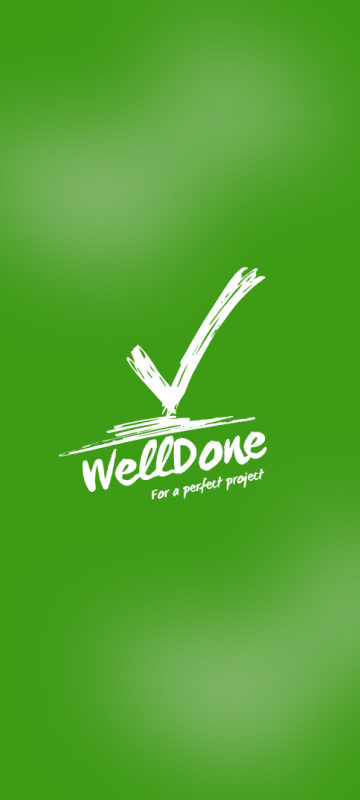
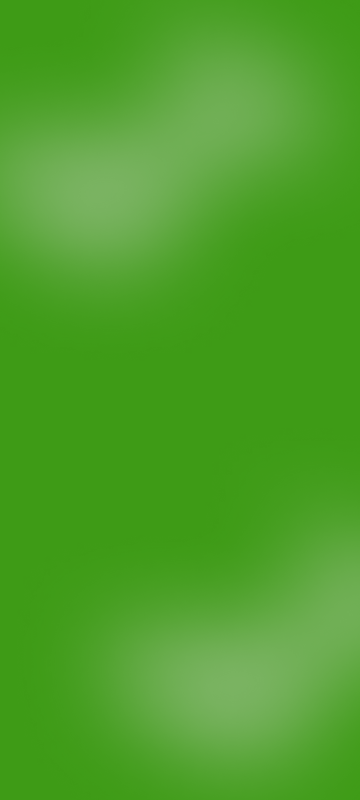
reconfig navigattion

Changed region(s): [[0.1833, 0.3125, 0.7333, 0.625]]

diff --git a/src/Navigation/index.tsx b/src/Navigation/index.tsx
@@ -3,12 +3,16 @@ import { StatusBar } from "react-native";
 import { createNativeStackNavigator } from "@react-navigation/native-stack";
 import { NavigationContainer } from "@react-navigation/native";
 import { MainNavigator } from "./Main";
-import { WelcomeContainer } from "@/Screens/Welcome";
-import { RootScreens } from "@/Screens";
+import { RootScreens, Onboarding1Container, Onboarding2Container, Onboarding3Container, Onboarding4Container, Onboarding5Container } from "@/Screens";
 
 export type RootStackParamList = {
   [RootScreens.MAIN]: undefined;
-  [RootScreens.WELCOME]: undefined;
+  [RootScreens.ONBOARDING1]: undefined;
+  [RootScreens.ONBOARDING2]: undefined;
+  [RootScreens.ONBOARDING3]: undefined;
+  [RootScreens.ONBOARDING4]: undefined;
+  [RootScreens.ONBOARDING5]: undefined;
+
 };
 
 const RootStack = createNativeStackNavigator<RootStackParamList>();
@@ -20,8 +24,24 @@ const ApplicationNavigator = () => {
       <StatusBar />
       <RootStack.Navigator screenOptions={{ headerShown: false }}>
         <RootStack.Screen
-          name={RootScreens.WELCOME}
-          component={WelcomeContainer}
+          name={RootScreens.ONBOARDING1}
+          component={Onboarding1Container}
+        />
+        <RootStack.Screen
+          name={RootScreens.ONBOARDING2}
+          component={Onboarding2Container}
+        />
+        <RootStack.Screen
+          name={RootScreens.ONBOARDING3}
+          component={Onboarding3Container}
+        />
+        <RootStack.Screen
+          name={RootScreens.ONBOARDING4}
+          component={Onboarding4Container}
+        />
+        <RootStack.Screen
+          name={RootScreens.ONBOARDING5}
+          component={Onboarding5Container}
         />
         <RootStack.Screen
           name={RootScreens.MAIN}

diff --git a/src/Screens/Onboarding1/Onboarding1.tsx b/src/Screens/Onboarding1/Onboarding1.tsx
@@ -1,0 +1,26 @@
+import React from "react";
+import { i18n, LocalizationKey } from "@/Localization";
+import { View, Text, StyleSheet, ImageBackground, Image, Pressable } from "react-native";
+import { Button } from "native-base";
+import { RootScreens } from "..";
+
+export const Onboarding1 = (props: {
+  onNavigate: (string: RootScreens) => void;
+}) => {
+  return (
+    <Pressable onPress={() => props.onNavigate(RootScreens.ONBOARDING2)}>
+      <ImageBackground source={require('assets/bg1.png')}  resizeMode="cover" className="flex items-center justify-center w-[100vw] h-[100vh]">
+        <Image
+            className="w-[400px] h-[400px] object-cover"
+            source={require('assets/light-logo.png')}
+          />
+          
+          {/* <Text className='text-xl text-white font-bold'>Hello</Text>
+          <Button onPress={() => props.onNavigate(RootScreens.MAIN)}>
+            {i18n.t(LocalizationKey.START)}
+          </Button> */}
+      </ImageBackground>
+    </Pressable>
+    
+  );
+};

diff --git a/src/Screens/Onboarding3/Onboarding3.tsx b/src/Screens/Onboarding3/Onboarding3.tsx
@@ -1,0 +1,26 @@
+import React from "react";
+import { i18n, LocalizationKey } from "@/Localization";
+import { View, Text, StyleSheet, ImageBackground, Image, Pressable } from "react-native";
+import { Button } from "native-base";
+import { RootScreens } from "..";
+
+export const Onboarding3 = (props: {
+  onNavigate: (string: RootScreens) => void;
+}) => {
+  return (
+    <Pressable onPress={() => props.onNavigate(RootScreens.MAIN)}>
+      <ImageBackground source={require('assets/bg1.png')}  resizeMode="cover" className="flex items-center justify-center w-full h-full">
+        <Image
+            className="w-[400px] h-[400px] object-cover"
+            source={require('assets/light-logo.png')}
+          />
+          
+          {/* <Text className='text-xl text-white font-bold'>Hello</Text>
+          <Button onPress={() => props.onNavigate(RootScreens.MAIN)}>
+            {i18n.t(LocalizationKey.START)}
+          </Button> */}
+      </ImageBackground>
+    </Pressable>
+    
+  );
+};

diff --git a/src/Screens/Onboarding4/Onboarding4.tsx b/src/Screens/Onboarding4/Onboarding4.tsx
@@ -1,0 +1,26 @@
+import React from "react";
+import { i18n, LocalizationKey } from "@/Localization";
+import { View, Text, StyleSheet, ImageBackground, Image, Pressable } from "react-native";
+import { Button } from "native-base";
+import { RootScreens } from "..";
+
+export const Onboarding4 = (props: {
+  onNavigate: (string: RootScreens) => void;
+}) => {
+  return (
+    <Pressable onPress={() => props.onNavigate(RootScreens.MAIN)}>
+      <ImageBackground source={require('assets/bg1.png')}  resizeMode="cover" className="flex items-center justify-center w-full h-full">
+        <Image
+            className="w-[400px] h-[400px] object-cover"
+            source={require('assets/light-logo.png')}
+          />
+          
+          {/* <Text className='text-xl text-white font-bold'>Hello</Text>
+          <Button onPress={() => props.onNavigate(RootScreens.MAIN)}>
+            {i18n.t(LocalizationKey.START)}
+          </Button> */}
+      </ImageBackground>
+    </Pressable>
+    
+  );
+};

diff --git a/src/Screens/Onboarding5/Onboarding5.tsx b/src/Screens/Onboarding5/Onboarding5.tsx
@@ -1,0 +1,26 @@
+import React from "react";
+import { i18n, LocalizationKey } from "@/Localization";
+import { View, Text, StyleSheet, ImageBackground, Image, Pressable } from "react-native";
+import { Button } from "native-base";
+import { RootScreens } from "..";
+
+export const Onboarding5 = (props: {
+  onNavigate: (string: RootScreens) => void;
+}) => {
+  return (
+    <Pressable onPress={() => props.onNavigate(RootScreens.MAIN)}>
+      <ImageBackground source={require('assets/bg1.png')}  resizeMode="cover" className="flex items-center justify-center w-full h-full">
+        <Image
+            className="w-[400px] h-[400px] object-cover"
+            source={require('assets/light-logo.png')}
+          />
+          
+          {/* <Text className='text-xl text-white font-bold'>Hello</Text>
+          <Button onPress={() => props.onNavigate(RootScreens.MAIN)}>
+            {i18n.t(LocalizationKey.START)}
+          </Button> */}
+      </ImageBackground>
+    </Pressable>
+    
+  );
+};

diff --git a/src/Screens/Onboarding2/Onboarding2.tsx b/src/Screens/Onboarding2/Onboarding2.tsx
@@ -1,0 +1,26 @@
+import React from "react";
+import { i18n, LocalizationKey } from "@/Localization";
+import { View, Text, StyleSheet, ImageBackground, Image, Pressable } from "react-native";
+import { Button } from "native-base";
+import { RootScreens } from "..";
+
+export const Onboarding2 = (props: {
+  onNavigate: (string: RootScreens) => void;
+}) => {
+  return (
+    <Pressable onPress={() => props.onNavigate(RootScreens.MAIN)}>
+      <ImageBackground source={require('assets/bg1.png')}  resizeMode="cover" className="flex items-center justify-center w-full h-full">
+        <Image
+            className="w-[400px] h-[400px] object-cover"
+            source={require('assets/light-logo.png')}
+          />
+          
+          <Text className='text-xl text-white font-bold'>Hello</Text>
+          <Button onPress={() => props.onNavigate(RootScreens.MAIN)}>
+            {i18n.t(LocalizationKey.START)}
+          </Button>
+      </ImageBackground>
+    </Pressable>
+    
+  );
+};

diff --git a/src/Screens/Onboarding2/Onboarding2Container.tsx b/src/Screens/Onboarding2/Onboarding2Container.tsx
@@ -1,20 +1,20 @@
 import React from "react";
-import { Welcome } from "./Welcome";
+import { Onboarding2 } from "./Onboarding2";
 import { NativeStackScreenProps } from "@react-navigation/native-stack";
 import { RootStackParamList } from "@/Navigation";
 import { RootScreens } from "..";
 
-type WelcomeScreenNavigatorProps = NativeStackScreenProps<
+type Onboarding2ScreenNavigatorProps = NativeStackScreenProps<
   RootStackParamList,
-  RootScreens.WELCOME
+  RootScreens.ONBOARDING2
 >;
 
-export const WelcomeContainer = ({
+export const Onboarding2Container = ({
   navigation,
-}: WelcomeScreenNavigatorProps) => {
+}: Onboarding2ScreenNavigatorProps) => {
   const onNavigate = (screen: RootScreens) => {
     navigation.navigate(screen);
   };
 
-  return <Welcome onNavigate={onNavigate} />;
+  return <Onboarding2 onNavigate={onNavigate} />;
 };

diff --git a/src/Screens/index.ts b/src/Screens/index.ts
@@ -1,4 +1,17 @@
+import { HomeContainer } from "./Home";
+import { Onboarding1Container } from "./Onboarding1";
+import { Onboarding2Container } from "./Onboarding2";
+import { Onboarding3Container } from "./Onboarding3";
+import { Onboarding4Container } from "./Onboarding4";
+import { Onboarding5Container } from "./Onboarding5";
+
 export enum RootScreens {
   MAIN = "Main",
-  WELCOME = "Welcome",
+  ONBOARDING1 = "Onboarding1",
+  ONBOARDING2 = "Onboarding2",
+  ONBOARDING3 = "Onboarding3",
+  ONBOARDING4 = "Onboarding4",
+  ONBOARDING5 = "Onboarding5",
 }
+
+export {HomeContainer, Onboarding1Container, Onboarding2Container, Onboarding3Container, Onboarding4Container, Onboarding5Container}

diff --git a/src/Screens/Onboarding1/Onboarding1Container.tsx b/src/Screens/Onboarding1/Onboarding1Container.tsx
@@ -1,0 +1,20 @@
+import React from "react";
+import { Onboarding1 } from "./Onboarding1";
+import { NativeStackScreenProps } from "@react-navigation/native-stack";
+import { RootStackParamList } from "@/Navigation";
+import { RootScreens } from "..";
+
+type Onboarding1ScreenNavigatorProps = NativeStackScreenProps<
+  RootStackParamList,
+  RootScreens.ONBOARDING1
+>;
+
+export const Onboarding1Container = ({
+  navigation,
+}: Onboarding1ScreenNavigatorProps) => {
+  const onNavigate = (screen: RootScreens) => {
+    navigation.navigate(screen);
+  };
+
+  return <Onboarding1 onNavigate={onNavigate} />;
+};

diff --git a/src/Screens/Onboarding3/Onboarding3Container.tsx b/src/Screens/Onboarding3/Onboarding3Container.tsx
@@ -1,0 +1,20 @@
+import React from "react";
+import { Onboarding3 } from "./Onboarding3";
+import { NativeStackScreenProps } from "@react-navigation/native-stack";
+import { RootStackParamList } from "@/Navigation";
+import { RootScreens } from "..";
+
+type Onboarding3ScreenNavigatorProps = NativeStackScreenProps<
+  RootStackParamList,
+  RootScreens.ONBOARDING3
+>;
+
+export const Onboarding3Container = ({
+  navigation,
+}: Onboarding3ScreenNavigatorProps) => {
+  const onNavigate = (screen: RootScreens) => {
+    navigation.navigate(screen);
+  };
+
+  return <Onboarding3 onNavigate={onNavigate} />;
+};

diff --git a/src/Screens/Onboarding4/Onboarding4Container.tsx b/src/Screens/Onboarding4/Onboarding4Container.tsx
@@ -1,0 +1,20 @@
+import React from "react";
+import { Onboarding4 } from "./Onboarding4";
+import { NativeStackScreenProps } from "@react-navigation/native-stack";
+import { RootStackParamList } from "@/Navigation";
+import { RootScreens } from "..";
+
+type Onboarding4ScreenNavigatorProps = NativeStackScreenProps<
+  RootStackParamList,
+  RootScreens.ONBOARDING4
+>;
+
+export const Onboarding4Container = ({
+  navigation,
+}: Onboarding4ScreenNavigatorProps) => {
+  const onNavigate = (screen: RootScreens) => {
+    navigation.navigate(screen);
+  };
+
+  return <Onboarding4 onNavigate={onNavigate} />;
+};

diff --git a/src/Screens/Onboarding5/Onboarding5Container.tsx b/src/Screens/Onboarding5/Onboarding5Container.tsx
@@ -1,0 +1,20 @@
+import React from "react";
+import { Onboarding5 } from "./Onboarding5";
+import { NativeStackScreenProps } from "@react-navigation/native-stack";
+import { RootStackParamList } from "@/Navigation";
+import { RootScreens } from "..";
+
+type Onboarding5ScreenNavigatorProps = NativeStackScreenProps<
+  RootStackParamList,
+  RootScreens.ONBOARDING5
+>;
+
+export const Onboarding5Container = ({
+  navigation,
+}: Onboarding5ScreenNavigatorProps) => {
+  const onNavigate = (screen: RootScreens) => {
+    navigation.navigate(screen);
+  };
+
+  return <Onboarding5 onNavigate={onNavigate} />;
+};
